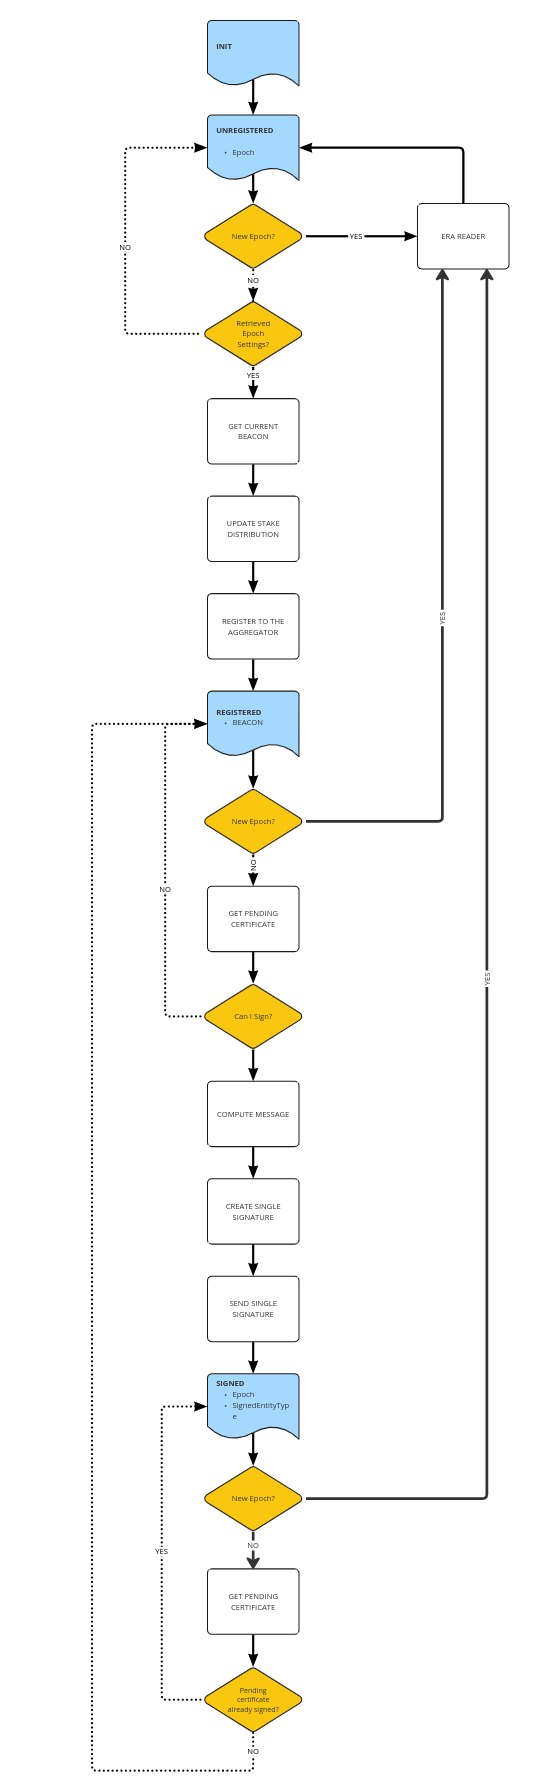
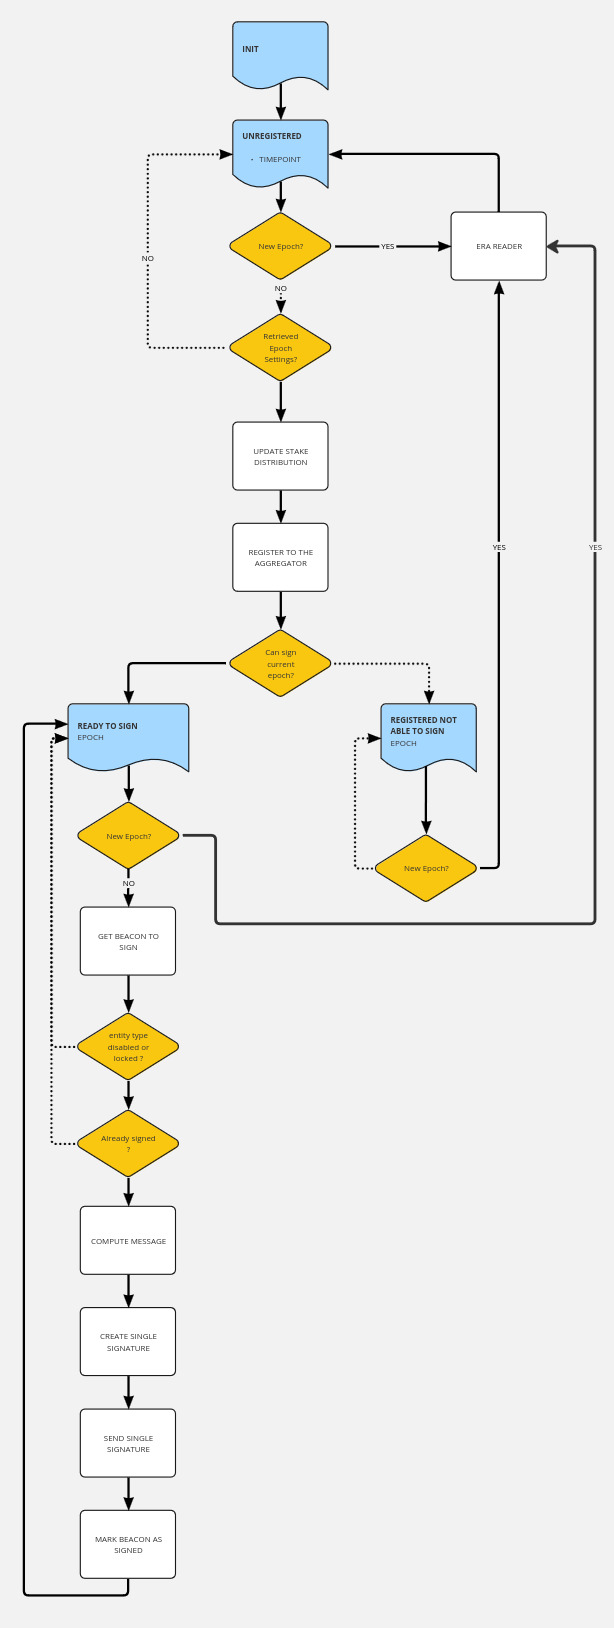
docs: rotate current documentation
With release of distribution '2442' by running 'make update-current' command.

diff --git a/docs/website/versioned_docs/version-maintained/manual/getting-started/bootstrap-cardano-node.md b/docs/website/versioned_docs/version-maintained/manual/getting-started/bootstrap-cardano-node.md
@@ -115,10 +115,10 @@ This program shows, downloads and verifies certified blockchain artifacts.
 Usage: mithril-client [OPTIONS] <COMMAND>
 
 Commands:
-  snapshot                    Deprecated, use `cardano-db` instead
   cardano-db                  Cardano db management (alias: cdb)
   mithril-stake-distribution  Mithril Stake Distribution management (alias: msd)
-  cardano-transaction         [unstable] Cardano transactions management (alias: ctx)
+  cardano-transaction         Cardano transactions management (alias: ctx)
+  cardano-stake-distribution  [unstable] Cardano stake distribution management (alias: csd)
   help                        Print this message or the help of the given subcommand(s)
 
 Options:
@@ -135,7 +135,7 @@ Options:
       --log-output <LOG_OUTPUT>
           Redirect the logs to a file
       --unstable
-          Enable unstable commands (such as Cardano Transactions)
+          Enable unstable commands (such as Cardano Stake Distribution)
   -h, --help
           Print help
   -V, --version
@@ -436,7 +436,7 @@ You will see more information about the snapshot:
 +-----------------------+--------------------------------------------------------------------------------------------------------------------------------------------------------------------------------+
 | Size                  | 2323485648                                                                                                                                                                     |
 +-----------------------+--------------------------------------------------------------------------------------------------------------------------------------------------------------------------------+
-| Cardano node version  | 9.1.0                                                                                                                                                                          |
+| Cardano node version  | 9.2.1                                                                                                                                                                          |
 +-----------------------+--------------------------------------------------------------------------------------------------------------------------------------------------------------------------------+
 | Location              | https://storage.googleapis.com/cdn.aggregator.testing-preview.api.mithril.network/preview-e539-i10787.db5f50a060d4b813125c4263b700ecc96e5d8c8710f0430e5c80d2f0fa79b667.tar.zst |
 +-----------------------+--------------------------------------------------------------------------------------------------------------------------------------------------------------------------------+
@@ -464,11 +464,11 @@ You will see that the selected snapshot archive has been downloaded locally, unp
 5/5 - Verifying the cardano db signature…
[1 lines of base64/hex data omitted]
 
[2 lines of base64/hex data omitted]
 
     If you are using Cardano Docker image, you can restore a Cardano Node with:
 
[2 lines of base64/hex data omitted]
 ```
 
 ### Step 5: Launch a Cardano node from the restored Cardano DB snapshot
@@ -476,7 +476,7 @@ Cardano db 'db5f50a060d4b813125c4263b700ecc96e5d8c8710f0430e5c80d2f0fa79b667' ha
 Launch an empty Cardano node and make it live in minutes!
 
 ```bash
-docker run -v cardano-node-ipc:/ipc -v cardano-node-data:/data --mount type=bind,source="$(pwd)/data/testnet/$SNAPSHOT_DIGEST/db",target=/data/db/ -e NETWORK=$CARDANO_NETWORK ghcr.io/intersectmbo/cardano-node:9.1.0
+docker run -v cardano-node-ipc:/ipc -v cardano-node-data:/data --mount type=bind,source="$(pwd)/data/testnet/$SNAPSHOT_DIGEST/db",target=/data/db/ -e NETWORK=$CARDANO_NETWORK ghcr.io/intersectmbo/cardano-node:9.2.1
 ```
 
 You will see the Cardano node start by validating the files ingested from the snapshot archive. Then, it will synchronize with the other network nodes and start adding blocks:

diff --git a/docs/website/versioned_docs/version-maintained/manual/getting-started/run-mithril-devnet.md b/docs/website/versioned_docs/version-maintained/manual/getting-started/run-mithril-devnet.md
@@ -486,7 +486,7 @@ You will see more information about the snapshot:
 +-----------------------+--------------------------------------------------------------------------------------------------------------------------------------------------------------------------------+
 | Size                  | 2323485648                                                                                                                                                                     |
 +-----------------------+--------------------------------------------------------------------------------------------------------------------------------------------------------------------------------+
-| Cardano node version  | 9.1.0                                                                                                                                                                          |
+| Cardano node version  | 9.2.1                                                                                                                                                                          |
 +-----------------------+--------------------------------------------------------------------------------------------------------------------------------------------------------------------------------+
 | Location              | https://storage.googleapis.com/cdn.aggregator.testing-preview.api.mithril.network/preview-e539-i10787.db5f50a060d4b813125c4263b700ecc96e5d8c8710f0430e5c80d2f0fa79b667.tar.zst |
 +-----------------------+--------------------------------------------------------------------------------------------------------------------------------------------------------------------------------+
@@ -514,9 +514,9 @@ You will see that the certificate chain is validated to ensure the issued certif
 5/5 - Verifying the cardano db signature…
[1 lines of base64/hex data omitted]
 
[2 lines of base64/hex data omitted]
 
     If you are using Cardano Docker image, you can restore a Cardano Node with:
 
[2 lines of base64/hex data omitted]
 ```

diff --git a/docs/website/versioned_docs/version-maintained/manual/developer-docs/nodes/mithril-client.md b/docs/website/versioned_docs/version-maintained/manual/developer-docs/nodes/mithril-client.md
@@ -130,7 +130,7 @@ Usage: mithril-client [OPTIONS] <COMMAND>
 Commands:
   cardano-db                  Cardano db management (alias: cdb)
   mithril-stake-distribution  Mithril Stake Distribution management (alias: msd)
-  cardano-transaction         [unstable] Cardano transactions management (alias: ctx)
+  cardano-transaction         Cardano transactions management (alias: ctx)
   cardano-stake-distribution  [unstable] Cardano stake distribution management (alias: csd)
   help                        Print this message or the help of the given subcommand(s)
 
@@ -148,7 +148,7 @@ Options:
       --log-output <LOG_OUTPUT>
           Redirect the logs to a file
       --unstable
-          Enable unstable commands (such as Cardano Transactions)
+          Enable unstable commands (such as Cardano Stake Distribution)
   -h, --help
           Print help
   -V, --version
@@ -253,13 +253,13 @@ mithril_client mithril-stake-distribution list
 mithril_client mithril-stake-distribution download $MITHRIL_STAKE_DISTRIBUTION_ARTIFACT_HASH
 
 # 7- List Cardano transaction snapshots
-mithril_client --unstable cardano-transaction snapshot list
+mithril_client cardano-transaction snapshot list
 
 # 8- Show detailed information about a Cardano transaction snapshot
-mithril_client --unstable cardano-transaction snapshot show $CARDANO_TRANSACTION_SNAPSHOT_HASH
+mithril_client cardano-transaction snapshot show $CARDANO_TRANSACTION_SNAPSHOT_HASH
 
 # 9- Certify that given list of transactions hashes are included in the Cardano transactions set
-mithril_client --unstable cardano-transaction certify $TRANSACTION_HASH_1,$TRANSACTION_HASH_2
+mithril_client cardano-transaction certify $TRANSACTION_HASH_1,$TRANSACTION_HASH_2
 
 # 10- List Cardano stake distributions
 mithril_client --unstable cardano-stake-distribution list

diff --git a/docs/website/versioned_docs/version-maintained/mithril/threat-model.md b/docs/website/versioned_docs/version-maintained/mithril/threat-model.md
@@ -52,9 +52,7 @@ All Mithril signers and Mithril clients connect to a single aggregator using HTT
 
 Registering a Mithril signing key means that a signer sends its corresponding verification key to the aggregator, for the purpose of distribution to all other Mithril signers.
 
-A Mithril aggregator coordinates creation of signatures by all registered signers. Mithril signers do ask the aggregator whether a signature is pending on a regular basis. The aggregator responds with information what to sign and a list of public information about all registered signers.
-
-Each Mithril signer verifies the information, produces a signature of the requested information to sign and submits that to the aggregator (which verifies the signature being correct upon receiving).
+Each Mithril signer checks if there is something that can be signed independently, produces a signature of what's needed to sign and submits that to the aggregator (which verifies the signature being correct upon receiving).
 
 The aggregator repeatedly checks whether enough valid signatures (to reach the quorum) are available to aggregate a Mithril stake-based multi-signature into a certificate.
 

diff --git a/docs/website/versioned_docs/version-maintained/mithril/mithril-network/aggregator.md b/docs/website/versioned_docs/version-maintained/mithril/mithril-network/aggregator.md
@@ -23,11 +23,9 @@ A **Mithril aggregator** is a trustless node responsible for coordinating the ac
 
 The primary objective of the Mithril aggregator is to coordinate and synchronize the production of Mithril multi-signatures:
 
-- When a new snapshot is ready to be produced (and certified), the Mithril aggregator generates and broadcasts a fresh **beacon** to inform Mithril signers of the specific time reference to employ in computing the message (or digest) for signing
+- It is responsible for broadcasting the **verification keys** (Mithril public keys) of all the registered Mithril signers
 
-- It is also responsible for advertising the **verification keys** (Mithril public keys) of all the registered Mithril signers
-
-- The beacon, the current protocol parameters, and the available verification keys are compiled and shared in a **pending certificate**
+- The current protocol parameters and the available verification keys are compiled and shared in an **epoch settings** data
 
 - Mithril signers can register with it to participate in the signature process later on.
 

diff --git a/docs/website/versioned_docs/version-maintained/mithril/mithril-network/signer.md b/docs/website/versioned_docs/version-maintained/mithril/mithril-network/signer.md
@@ -40,7 +40,6 @@ Ultimately, any signer will have the potential to function as a Mithril aggregat
 
 The Mithril signer establishes a connection with the Mithril aggregator for the following purposes:
 
-- Determining when to sign a new snapshot (via the advertised beacon of the pending certificate)
 - Obtaining the presently used protocol parameters
 - Registering its verification keys (public keys)
 - Receiving the verification keys of all other declared signers, available for the upcoming message signing
@@ -56,7 +55,7 @@ In its initial version, the **Mithril signer** consists of a primary component:
 
 - A runtime powered by a state machine:
   - The runtime operates synchronously and is programmed to run at consistent intervals
-  - Three potential states exist: **UNREGISTERED**, **REGISTERED**, and **SIGNED**
+  - Four potential states exist: **INIT**, **UNREGISTERED**, **READY TO SIGN** and **REGISTERED NOT ABLE TO SIGN**.
   - The runtime effectively manages state transitions
   - The runtime's framework is depicted in the diagram below:
 

diff --git a/docs/website/versioned_docs/version-maintained/manual/getting-started/run-signer-node.md b/docs/website/versioned_docs/version-maintained/manual/getting-started/run-signer-node.md
@@ -909,7 +909,7 @@ Once this delay has passed, you should be able to observe your `PoolId` listed i
 
 ### Verify your signer is registered
 
-After installing the Mithril signer, you can verify that your node is registered by checking your Mithril signer node logs.
+After installing the Mithril signer, you can verify that your node is registered.
 
 First, download the script into the desired directory:
 
